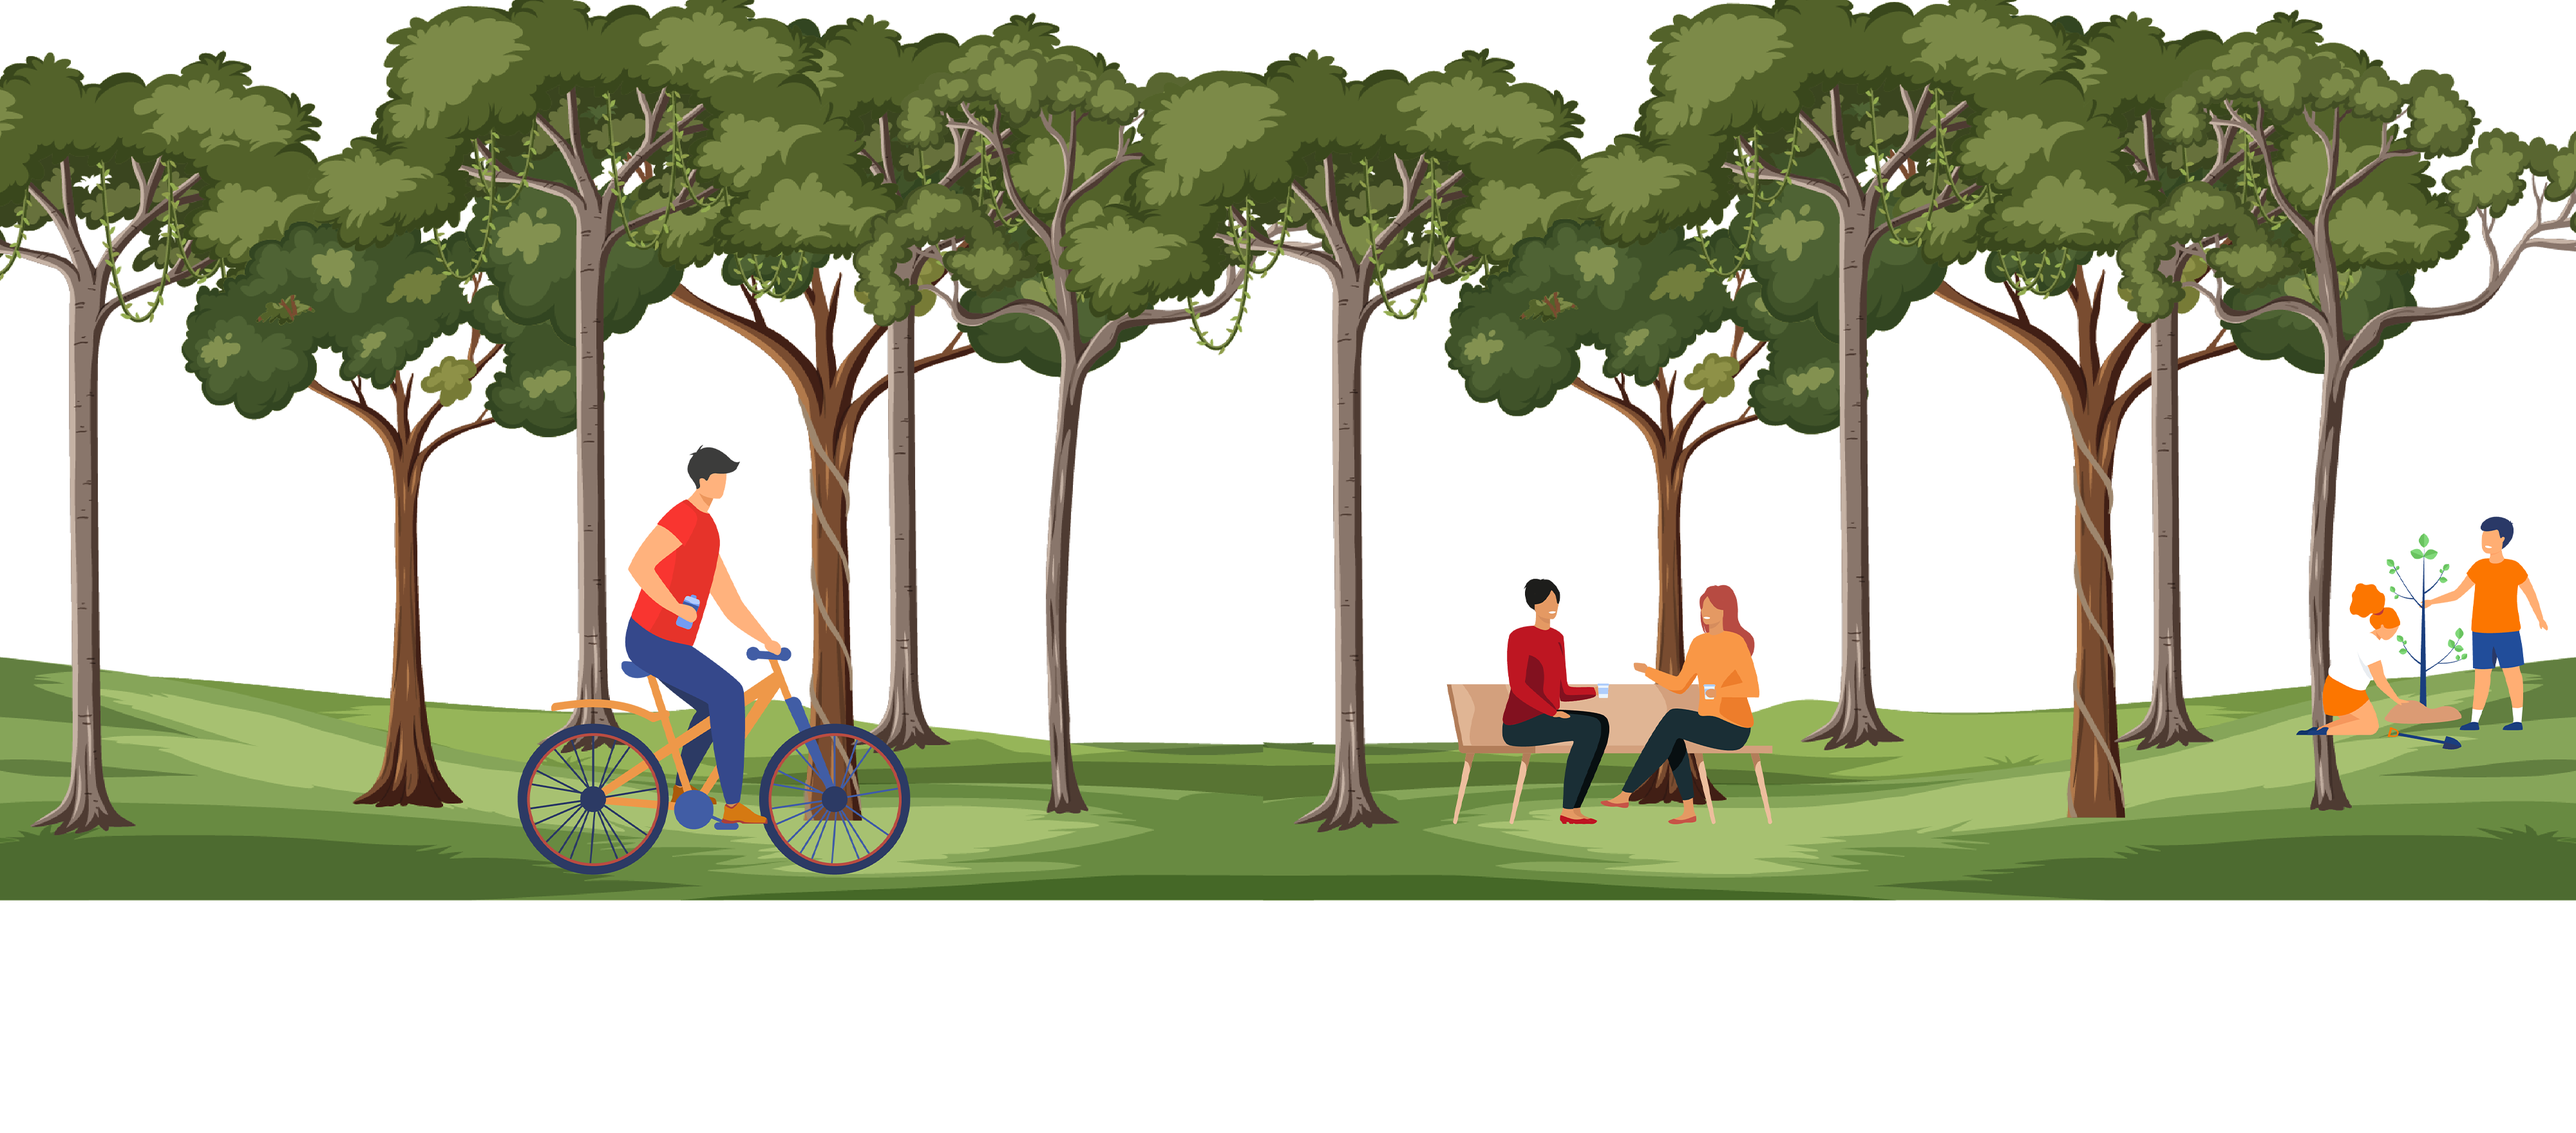
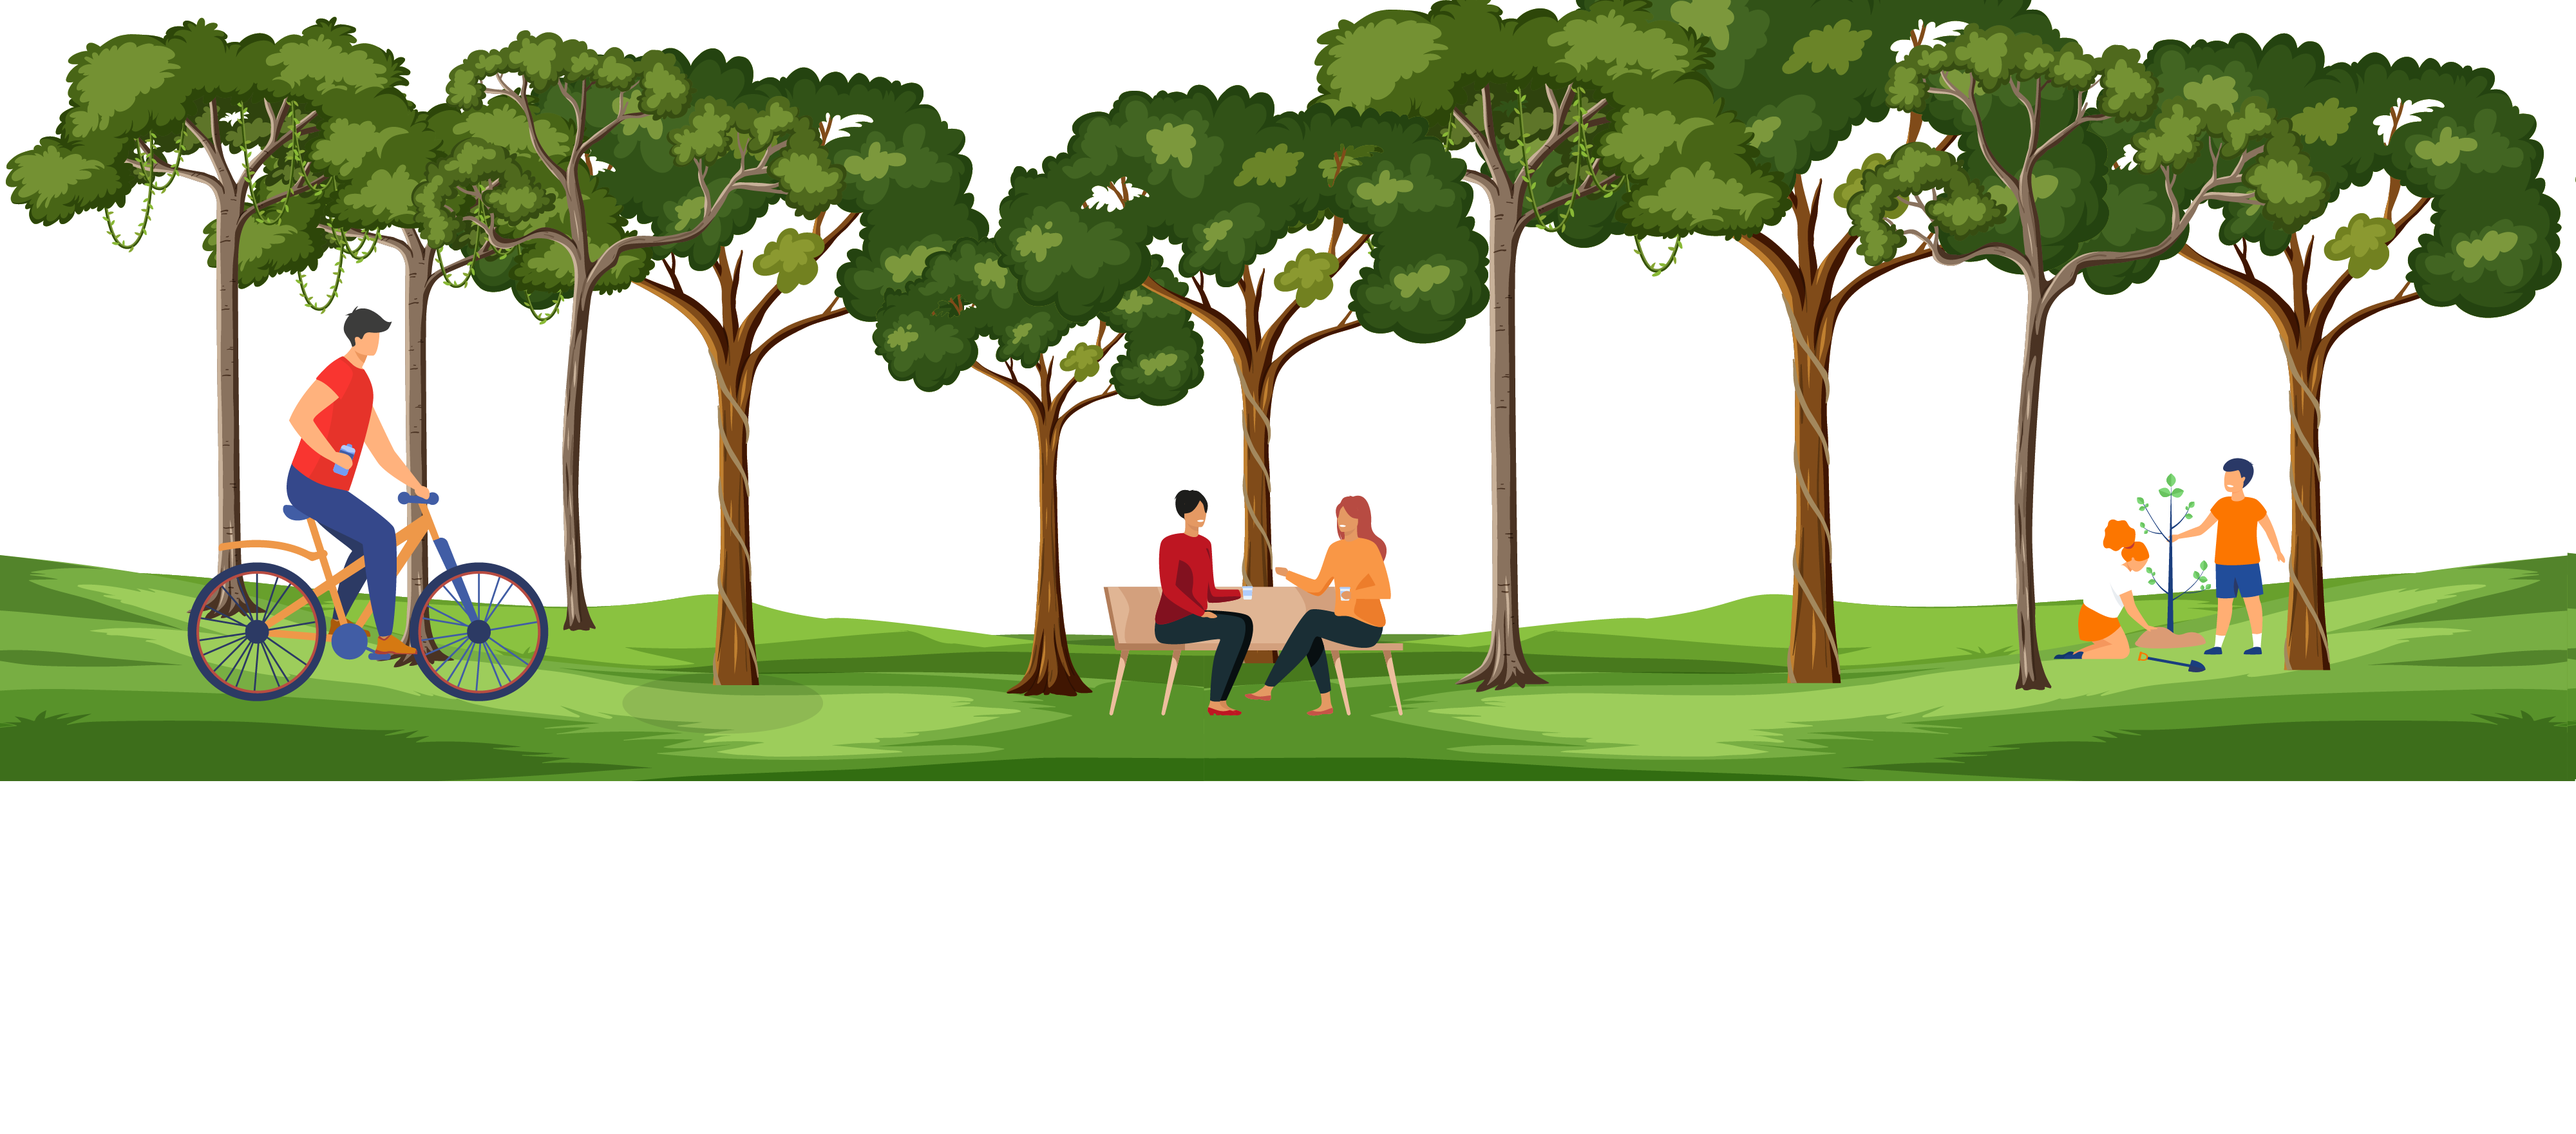
se ajustaron las nuevas imagenes y se acortaron los caminos

diff --git a/js/routesAttention.js b/js/routesAttention.js
@@ -42,7 +42,7 @@ function rutesAttentionMovil(json) {
 
     //sacar el numero de la capa actual
     let indexCap = $('body').attr('title')
-
+    
     if ($('body').hasClass('active')) {
 
       //si esta activa la clase del brecumbs home, guarda el numero de la dimension precionada y activa la animacion
@@ -83,8 +83,9 @@ function rutesAttentionMovil(json) {
         entity = array_value_params[2]
       }
 
-      console.log($('.arrow-3').hasClass('arrow-active'), 'comfirmalo', indexCap)
-      if (Number(indexCap) < 3) {
+      json.then(function (value) {
+      console.log( dimension, attetionAux, entity, (Number(indexCap) === 3)? index : 0 , indexCap , 'caminata','salida 87')
+      if (get_name_dimension(value, dimension, attetionAux, entity, (Number(indexCap) === 3)? index : 0 , indexCap , 'caminata')) {
         if (sizeScreenWidthAux <= 500) {
           Promise.all([animateBackgroundNew(false, sizeScreenWidth, true, json, dimension, attetionAux, entity, indexCap),
           animateRuteNew(false, sizeScreenWidth, (index + 1), json, dimension, attetionAux, entity, indexCap, name, nameDimension), animateCharacterNew(json, dimension, attetionAux, entity, indexCap, sizeScreenWidth)])
@@ -101,26 +102,30 @@ function rutesAttentionMovil(json) {
         $('#arrows-1').attr('title', dimension + ',' + attetionAux + ',' + entity + ',' + name)
       }
       else {
+
+        if (Number(indexCap) === 3) {
         $('.arrow-3').removeClass('arrow-active')
         $('.arrow-3').find('.arrow-text').removeClass('arrow-active')
         $('.arrow-4').find('.arrow-text').addClass('arrow-active')
         $('.arrow-4').show()
         $('.arrow-4').find('.arrow-text').html(nameDimension)
-
+        }
 
 
         if (sizeScreenWidthAux <= 500) {
-          console.log(dimension, attetionAux, entity, indexCap, index, 'salidad 89')
-          funcionalityInfoContent(json, dimension, attetionAux, entity, index)
-          funcionality_botton_text(json, dimension, attetionAux, entity, index)
+          console.log(dimension, attetionAux, entity, index, 'salidad 89')
+          funcionalityInfoContent(json, dimension, attetionAux, entity, (Number(indexCap) === 3)? index : 0 )
+          funcionality_botton_text(json, dimension, attetionAux, entity, (Number(indexCap) === 3)? index : 0 )
         }
         else {
           console.log('entro pero que raro 25')
-          funcioanlity_box_escritorio(json, dimension, attetionAux, entity, index)
+          funcioanlity_box_escritorio(json, dimension, attetionAux, entity, (Number(indexCap) === 3)? index : 0 )
         }
 
 
       }
+
+      })
 
     }
 
@@ -235,7 +240,7 @@ function animateRuteNew(band, sizeScreenWidth, screen, json, dimension, attetion
 
         }
 
-        console.log($(`.${clasName}`).width(), 'Object.isSealed(value)', timeHideRute)
+        //console.log($(`.${clasName}`).width(), 'Object.isSealed(value)', timeHideRute)
         sizeScreen += 10
       }
       else {
@@ -279,7 +284,7 @@ function animateCharacterNew(json, dimension, attetionAux, entity, indexCap, siz
           }
           $(`#personaje-caminata-${imgSequence - 1}`).addClass('features-personajes-off')
           $(`#personaje-caminata-${imgSequence}`).removeClass('features-personajes-off')
-          console.log(imgSequence, 'imgSequence', imgSequence - 1, 'imgSequence - 1')
+          //console.log(imgSequence, 'imgSequence', imgSequence - 1, 'imgSequence - 1')
           imgSequence++
           timeSequence = 1
         }
@@ -1007,7 +1012,7 @@ function carry_box_dimension(json) {
       //activar el brecumbs 
       for (var i = 0; i < index; i++) {
         console.log('i', i)
-        funcionalityBrecumbs(show_breadcrumb, get_name_dimension(value, array_value_params[0], array_value_params[1], array_value_params[2], array_value_params[3], show_breadcrumb))
+        funcionalityBrecumbs(show_breadcrumb, get_name_dimension(value, array_value_params[0], array_value_params[1], array_value_params[2], array_value_params[3], show_breadcrumb,'name'))
         show_breadcrumb--
       }
 
@@ -1023,9 +1028,11 @@ function carry_box_dimension(json) {
       })
 
       //saber si el svg esta oculto
+      if (index < 4) {
       if (size_object_senalitica(value, array_value_params[0], array_value_params[1], array_value_params[2], index-1).length > 5) {
         $(`.lienzo`).css('right', `${get_time_multiplier(value, array_value_params[0], array_value_params[1], array_value_params[2], index - 1).split(',')[3]}%`)
       }
+     }
 
 
       //añadir la clase activa al breadcrumbs
@@ -1060,15 +1067,15 @@ function carry_box_dimension(json) {
  * @description funcion para obtener el nombre de la dimension
  * @returns 
  */
-function get_name_dimension(value, index, attention, sedes, entity, indexAux) {
+function get_name_dimension(value, index, attention, sedes, entity, indexAux , key) {
 
   objectCap = {
-    0: Object.values(value)[index].name,
-    1: Object.values(Object.values(value)[index].TiposDeAtencion)[attention].name,
-    2: Object.values(Object.values(Object.values(value)[index].TiposDeAtencion)[attention].sedes)[sedes].name,
-    3: Object.values(Object.values(Object.values(Object.values(value)[index].TiposDeAtencion)[attention].sedes)[sedes].Entidades)[entity].name
+    0: Object.values(value)[index][key],
+    1: Object.values(Object.values(value)[index].TiposDeAtencion)[attention][key],
+    2: Object.values(Object.values(Object.values(value)[index].TiposDeAtencion)[attention].sedes)[sedes][key],
+    3: Object.values(Object.values(Object.values(Object.values(value)[index].TiposDeAtencion)[attention].sedes)[sedes].Entidades)[entity][key]
   }
-
+  console.log('objectCap', indexAux)
   return objectCap[indexAux]
 
 }
@@ -1097,13 +1104,32 @@ function add_class_active_brecumbs_params_url(indexUrlParams) {
 
 }
 
-//objectJson = [(Object.entries((Object.values(value)[dimension].TiposDeAtencion))), Object.entries((Object.entries((Object.values(value)[dimension]).TiposDeAtencion)[attetionAux])[1].sedes), Object.entries(((Object.entries((Object.entries((Object.values(value)[dimension]).TiposDeAtencion)[attetionAux])[1].sedes)[entity])[1]).Entidades)]
+
 /**
  * @method size_object_senalitica
  * @description funcion para saber el tamaño del objeto
  * @returns 
  */
 function size_object_senalitica(value, dimension, attention, entity, indexAux) {
+
+  objectCap = {
+    0: Object.entries((Object.values(value)[dimension].TiposDeAtencion)),
+    1: Object.entries((Object.entries((Object.values(value)[dimension]).TiposDeAtencion)[attention])[1].sedes),
+    2: Object.entries(((Object.entries((Object.entries((Object.values(value)[dimension]).TiposDeAtencion)[attention])[1].sedes)[entity])[1]).Entidades)
+  }
+
+  return objectCap[indexAux]
+
+}
+
+
+//(Object.values(((Object.entries(((((Object.values(value)[dimension]).TiposDeAtencion)[attetionAux]).sedes)[entity].Entidades))[index][1]).Atenciones)[0]).name
+/**
+ * @method get_info_box_senalitica
+ * @description funcion para sacar el titulo y el contenido de la señalitica
+ * @returns 
+ */
+function get_info_box_senalitica(value, dimension, attention, entity, indexAux) {
 
   objectCap = {
     0: Object.entries((Object.values(value)[dimension].TiposDeAtencion)),
